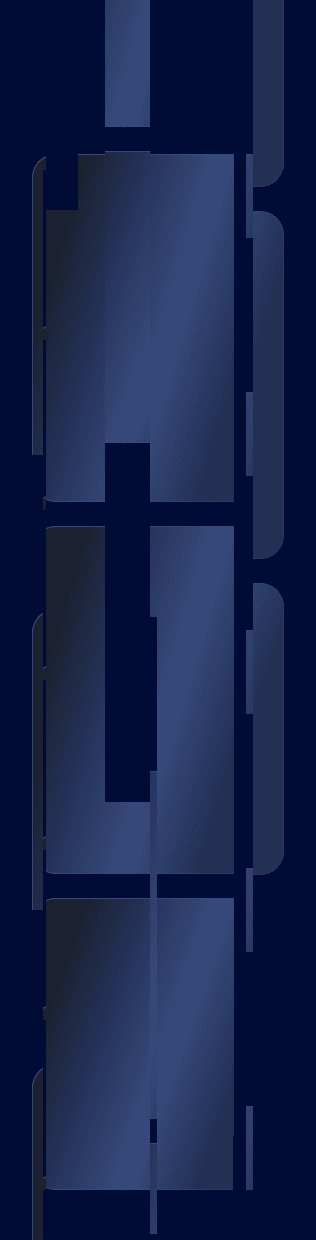
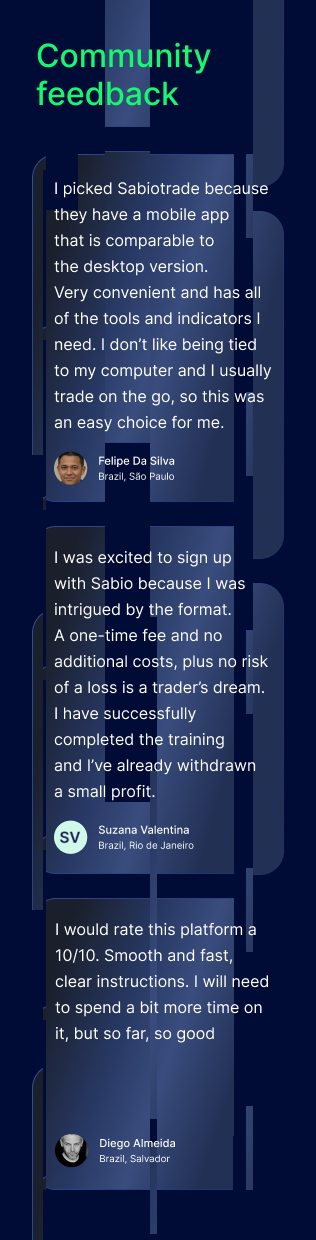
update main.css, community-mob.png and index.html

diff --git a/css/main.css b/css/main.css
@@ -2,6 +2,7 @@
   box-sizing: border-box;
   margin: 0;
   padding: 0;
+  user-select: none;
 }
 
 a {
@@ -115,7 +116,7 @@ body {
   }
 }
 
-@media (max-width: 800px) {
+@media (max-width: 1250px) {
   .navigation-list ul.mobile-link {
     display: flex;
   }
@@ -781,7 +782,7 @@ body {
 @media (max-width: 600px) {
   .sale__item-1 {
     background-image: url(../img/sale-item-mob1.png);
-    width: 353.263px;
+    width: 100%;
     height: 310.723px;
     margin-top: 0;
   }
@@ -821,11 +822,11 @@ body {
   max-width: 340px;
   margin-top: 5px;
 }
-@media (max-width: 600px) {
-  .sale__item-suptitle {
-    font-size: 22px;
-    max-width: 264.559px;
-  }
+.sale__item-list-2 {
+  transform: rotate(-12.554deg);
+  margin-top: 100px;
+  margin-left: 80px;
+  color: #000b36;
 }
 
 .sale__item-2 {
@@ -946,15 +947,11 @@ body {
 }
 
 .sale__item-list-1 {
-  margin-top: 136px;
-  margin-left: 39px;
+  margin-top: 160px;
+  margin-left: 62px;
   color: #000b36;
   max-width: 92px;
-}
-@media (max-width: 600px) {
-  .sale__item-list-1 {
-    margin-left: 20px;
-  }
+  rotate: -20deg;
 }
 
 .sale__list-title {
@@ -980,12 +977,6 @@ body {
   }
 }
 
-.sale__item-list-2 {
-  transform: rotate(-12.554deg);
-  margin-top: 100px;
-  margin-left: 80px;
-  color: #000b36;
-}
 .sale__item-list-2 .sale__list-suptitle {
   text-align: start;
 }
@@ -1649,12 +1640,6 @@ body {
   width: 100%;
   min-height: 603px;
 }
-@media (max-width: 920px) {
-  .community__row {
-    background-image: url(../img/community-mob.png);
-    min-height: 1549px;
-  }
-}
 
 .community__title {
   margin-left: 152px;
@@ -1689,15 +1674,6 @@ body {
     margin-left: 0;
   }
 }
-@media (max-width: 920px) {
-  .community__list {
-    flex-direction: column;
-    row-gap: 120px;
-    margin-left: 54px;
-    margin-top: 70px;
-  }
-}
-
 .community__item {
   width: 347px;
   height: 344px;
@@ -1706,13 +1682,6 @@ body {
   flex-direction: column;
   justify-content: space-between;
 }
-@media (max-width: 920px) {
-  .community__item {
-    width: 218px;
-    padding: 0;
-  }
-}
-
 @media (max-width: 600px) {
   .sale__bg {
     padding-bottom: 140px;
@@ -1970,7 +1939,7 @@ body {
   width: 100%;
   height: 100%;
 }
-@media (max-width: 800px) {
+@media (max-width: 1250px) {
   #plans {
     display: block;
   }
@@ -2039,7 +2008,7 @@ body {
     line-height: 24px;
     padding: 30px 0px;
     position: relative;
-    color: #ffffff8f;
+    color: #fff;
   }
   .plan-block__price_sale::after {
     content: "";
@@ -2179,7 +2148,8 @@ body {
   }
   .mobile_slider .swiper-slide {
     position: relative;
-    padding: 60px 16px;
+    padding: 60px 8px;
+    width: 50%;
   }
   .mobile_slider .swiper-slide .overlay {
     background-image: url(../img/slide-bg2.svg);
@@ -2229,6 +2199,23 @@ body {
     z-index: 2;
     position: relative;
   }
+}
+
+@media screen and (max-width: 800px) {
+  .mobile_slider .swiper-slide {
+    width: 100%;
+  }
+  .intro__block {
+    height: 1030px;
+  }
+  .community__row {
+    background-image: url(../img/community-mob.png);
+    min-height: 1549px;
+    pointer-events: none;
+  }
+  .community__row * {
+    opacity: 0;
+  }
   .community__row {
     background-size: 100% 100%;
     min-height: auto;
@@ -2237,6 +2224,7 @@ body {
     width: 100dvw;
   }
   .community__list {
+    flex-direction: column;
     row-gap: 20px;
     margin-top: 0;
     padding: 0;
@@ -2256,5 +2244,56 @@ body {
   }
   .community__item-info img {
     object-fit: contain;
+  }
+}
+@media (max-width: 600px) {
+  .sale__item-suptitle {
+    font-size: 22px;
+    max-width: 264.559px;
+  }
+  .f-32 {
+    font-size: 32px;
+  }
+  .f-24 {
+    font-size: 24px;
+  }
+  .sale__item-list-1 .sale__list-suptitle,
+  .sale__item-list-2 .sale__list-title {
+    font-size: 19px;
+  }
+  .sale__item-list-2 {
+    margin-left: 100px;
+    rotate: -9.554deg;
+  }
+  .plan-block__price {
+    font-family: Anonymous Pro;
+    font-size: 32px;
+    font-weight: 700;
+    line-height: 1;
+  }
+  .plan-block__balance {
+    font-size: 28px;
+    margin-bottom: 0;
+  }
+  .plan-block__price_sale {
+    padding: 15px 0;
+  }
+  .plan-block__price-text {
+    top: -10px;
+  }
+  .plan-block__price_sale::after {
+    background-size: 100%;
+    background-image: url("../img/price-saler.png");
+    rotate: 0deg;
+  }
+  .trade__row {
+    width: 100dvw;
+    margin-left: -16px;
+  }
+  .mobile_slider .swiper-slide .overlay {
+    width: 100%;
+  }
+  .trade__title {
+    padding-left: 16px;
   }
 }

diff --git a/index.html b/index.html
@@ -32,6 +32,12 @@
 							<li><a href="#">Italian</a></li>
 							<li><a href="#">French</a></li>
 							<li><a href="#">German</a></li>
+							<br>
+							<br>
+							<br>
+							<li><a href="#">Plans</a></li>
+							<li><a href="#">Reviews</a></li>
+							<li><a href="#">Faq</a></li>
 						</ul>
 					</div>
 					<div class="nav__blocks">
@@ -167,12 +173,13 @@
 					<div class="sale__item-2">
 						<div class="sale__text-2">
 							<p class="sale__item-title">Up to 90% payout</p>
-							<p class="sale__item-suptitle">The most beneficial profit sharing scheme</p>
+							<p class="sale__item-suptitle f-24">The most beneficial profit sharing scheme</p>
 						</div>
 					</div>
 					<div class="sale__item-3">
 						<div class="sale__text-3">
 							<p class="sale__item-title">100% refund</p>
+							<p class="sale__item-suptitle f-32">after<br />the successful assessment</p>
 						</div>
 					</div>
 					<div class="sale__item-4">
@@ -825,11 +832,17 @@
 			spaceBetween: 16,
 			debugger: true,
 		});
-		var swiper2 = new Swiper(".mobile_slider", {
-			slidesPerView: "auto",
-			spaceBetween: 16,
+		var swiper2 = new Swiper('.mobile_slider', {
+			slidesPerView: 1.2,
+			spaceBetween: 0,
+			breakpoints: {
+				600: {
+					slidesPerView: 2,
+					spaceBetween: 0,
+				},
+			},
 			debugger: true,
-		});
+		})
 	</script>
 </body>
 
